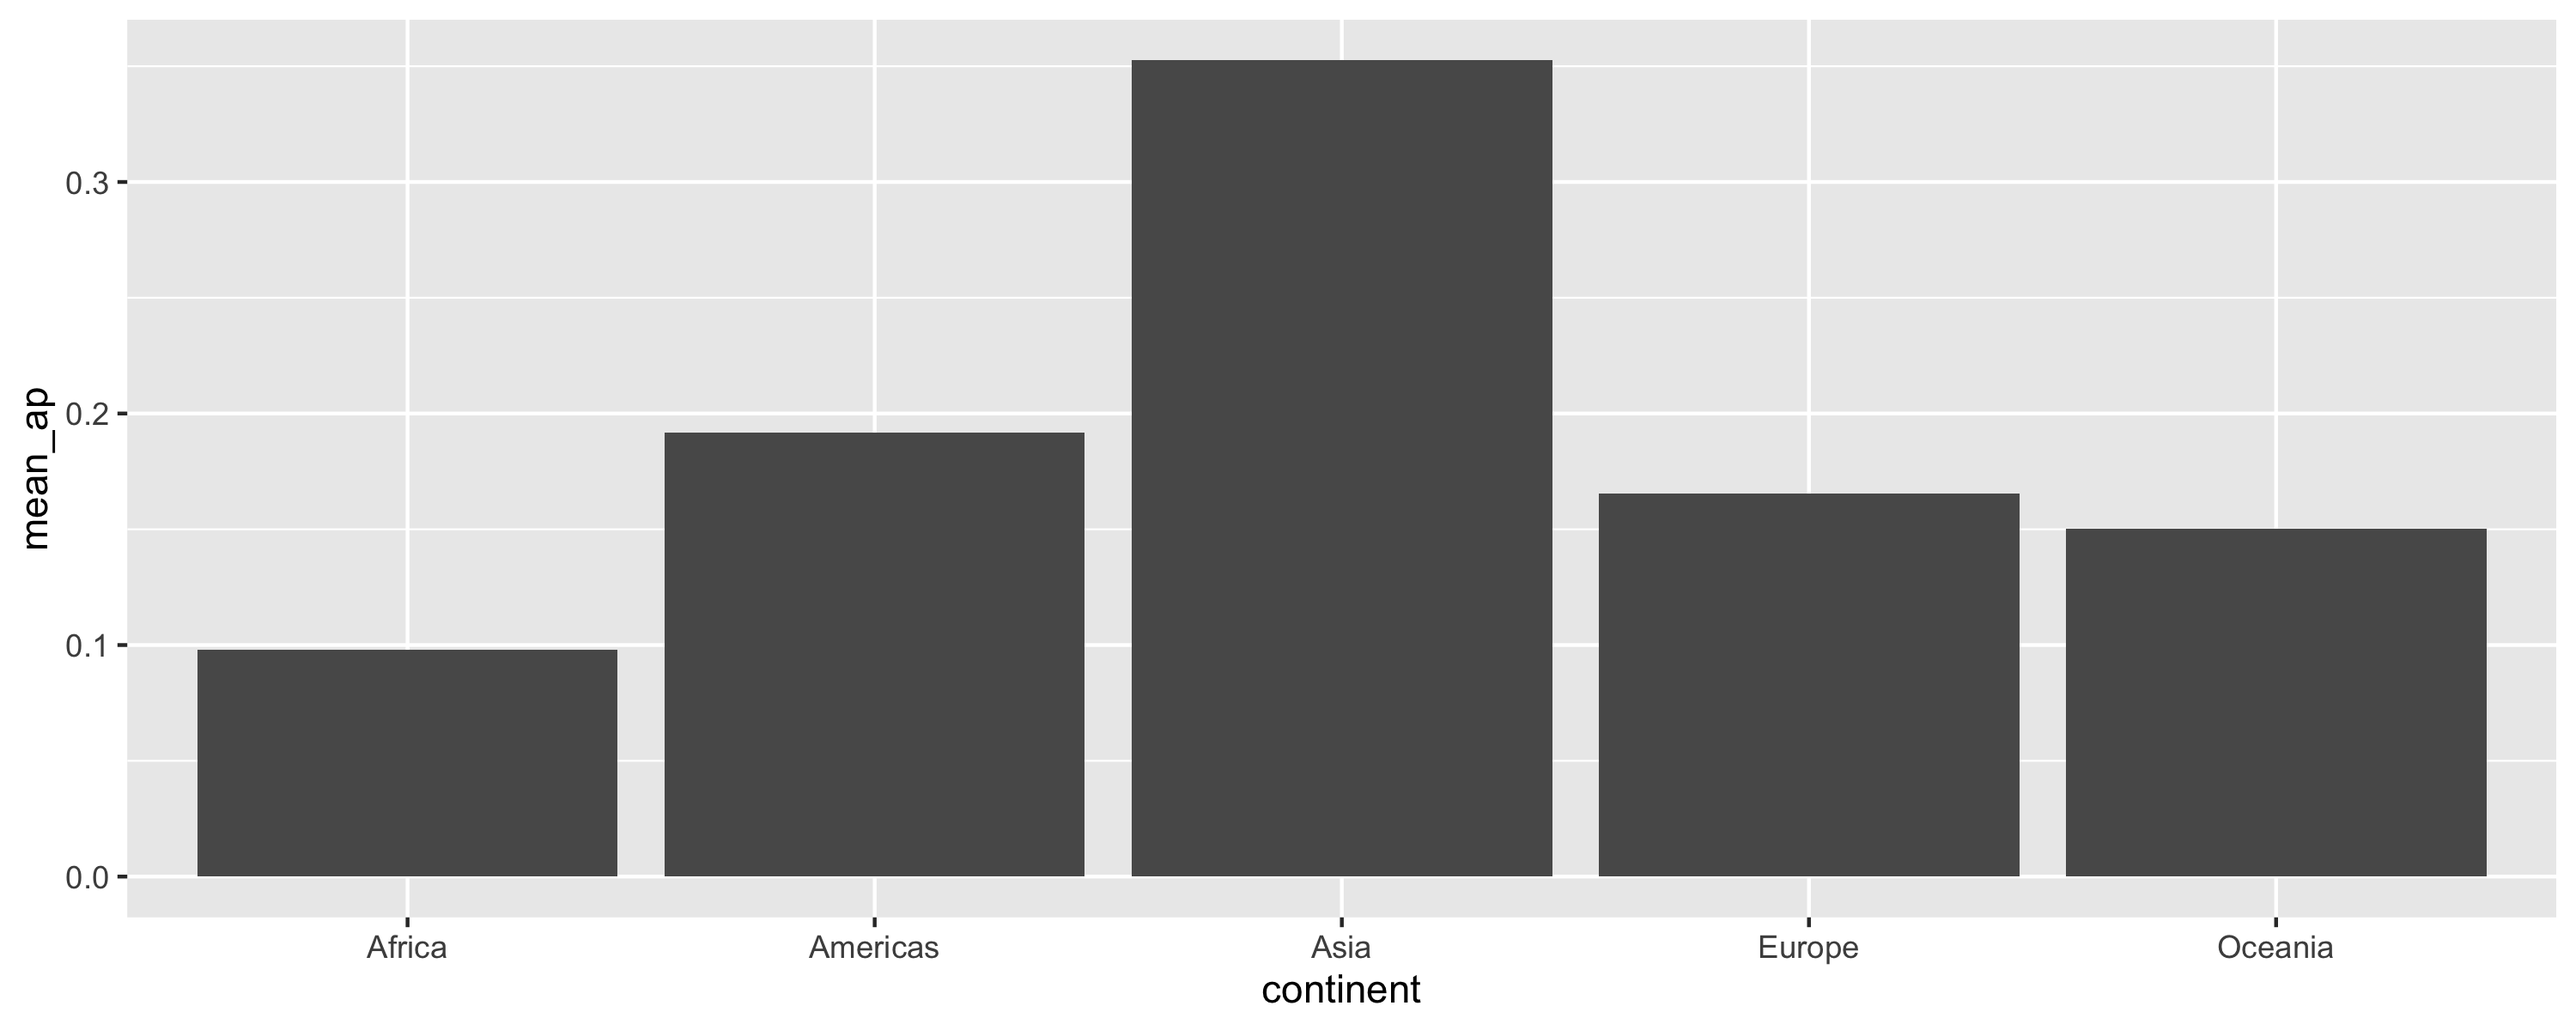
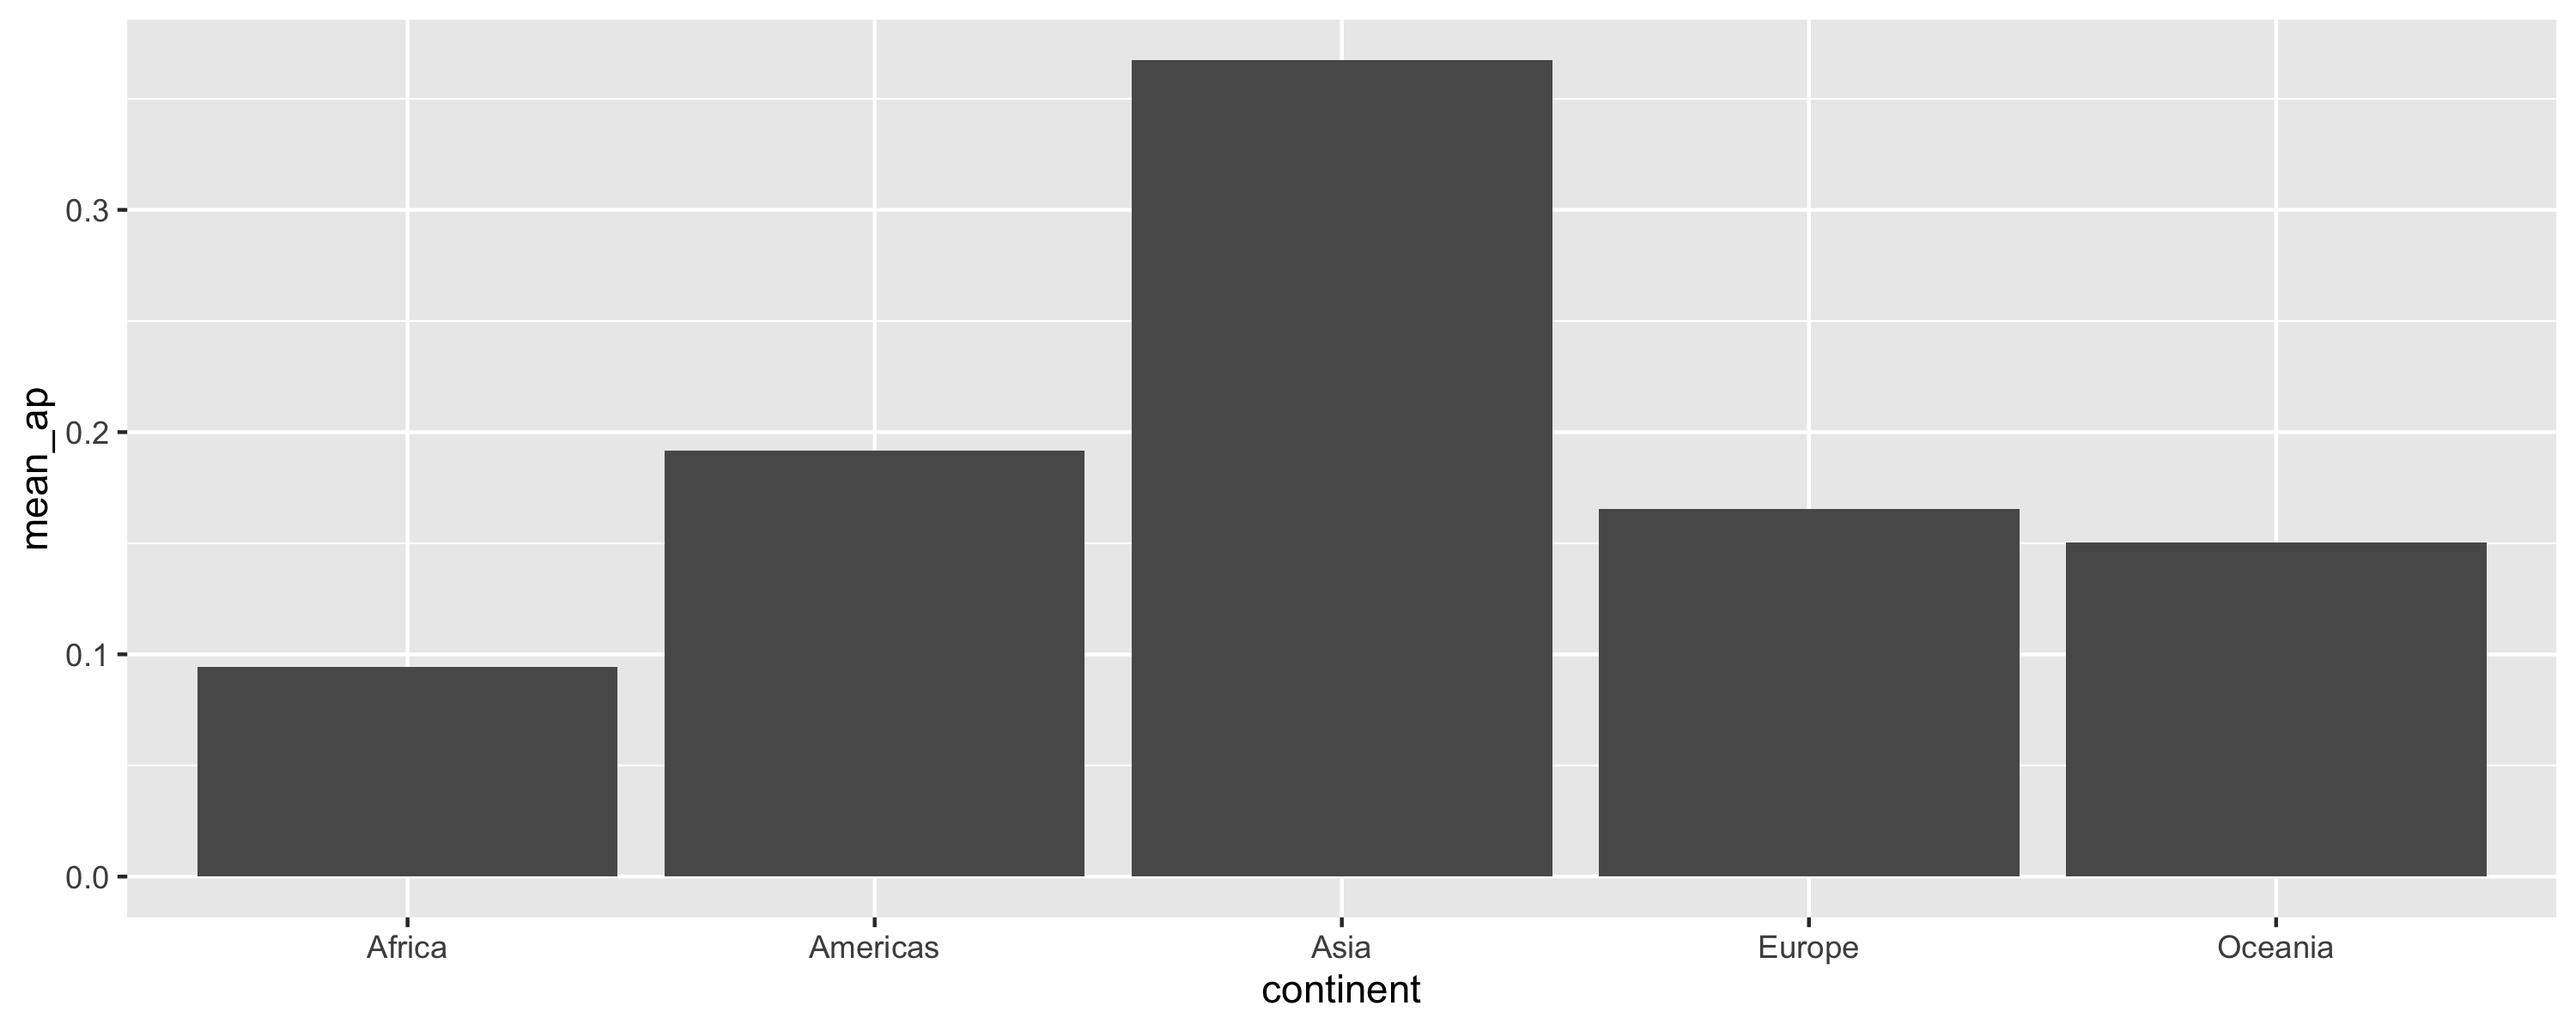
Fix Congo

diff --git a/static/slides/w4_d2-joining-mapping/w4_d2-joining-mapping.html b/static/slides/w4_d2-joining-mapping/w4_d2-joining-mapping.html
@@ -503,7 +503,7 @@ fisheries %&gt;%
 ```r
 fisheries &lt;- fisheries %&gt;%
   mutate(continent = case_when(
-    country == "Democratic Republic of the Congo" ~ "Asia",
+    country == "Democratic Republic of the Congo" ~ "Africa",
     country == "Hong Kong"                        ~ "Asia",
     country == "Myanmar"                          ~ "Asia",
     TRUE                                          ~ continent
@@ -557,11 +557,11 @@ fisheries_summary %&gt;%
 ## # A tibble: 5 x 4
 ##   continent  min_ap mean_ap max_ap
 ##   &lt;chr&gt;       &lt;dbl&gt;   &lt;dbl&gt;  &lt;dbl&gt;
-## 1 Asia      0        0.353   0.782
+## 1 Asia      0        0.367   0.782
 ## 2 Americas  0        0.192   0.529
 ## 3 Europe    0.00682  0.165   0.618
 ## 4 Oceania   0.0197   0.150   0.357
-## 5 Africa    0        0.0979  0.803
+## 5 Africa    0        0.0943  0.803
 ```
 
 ---
